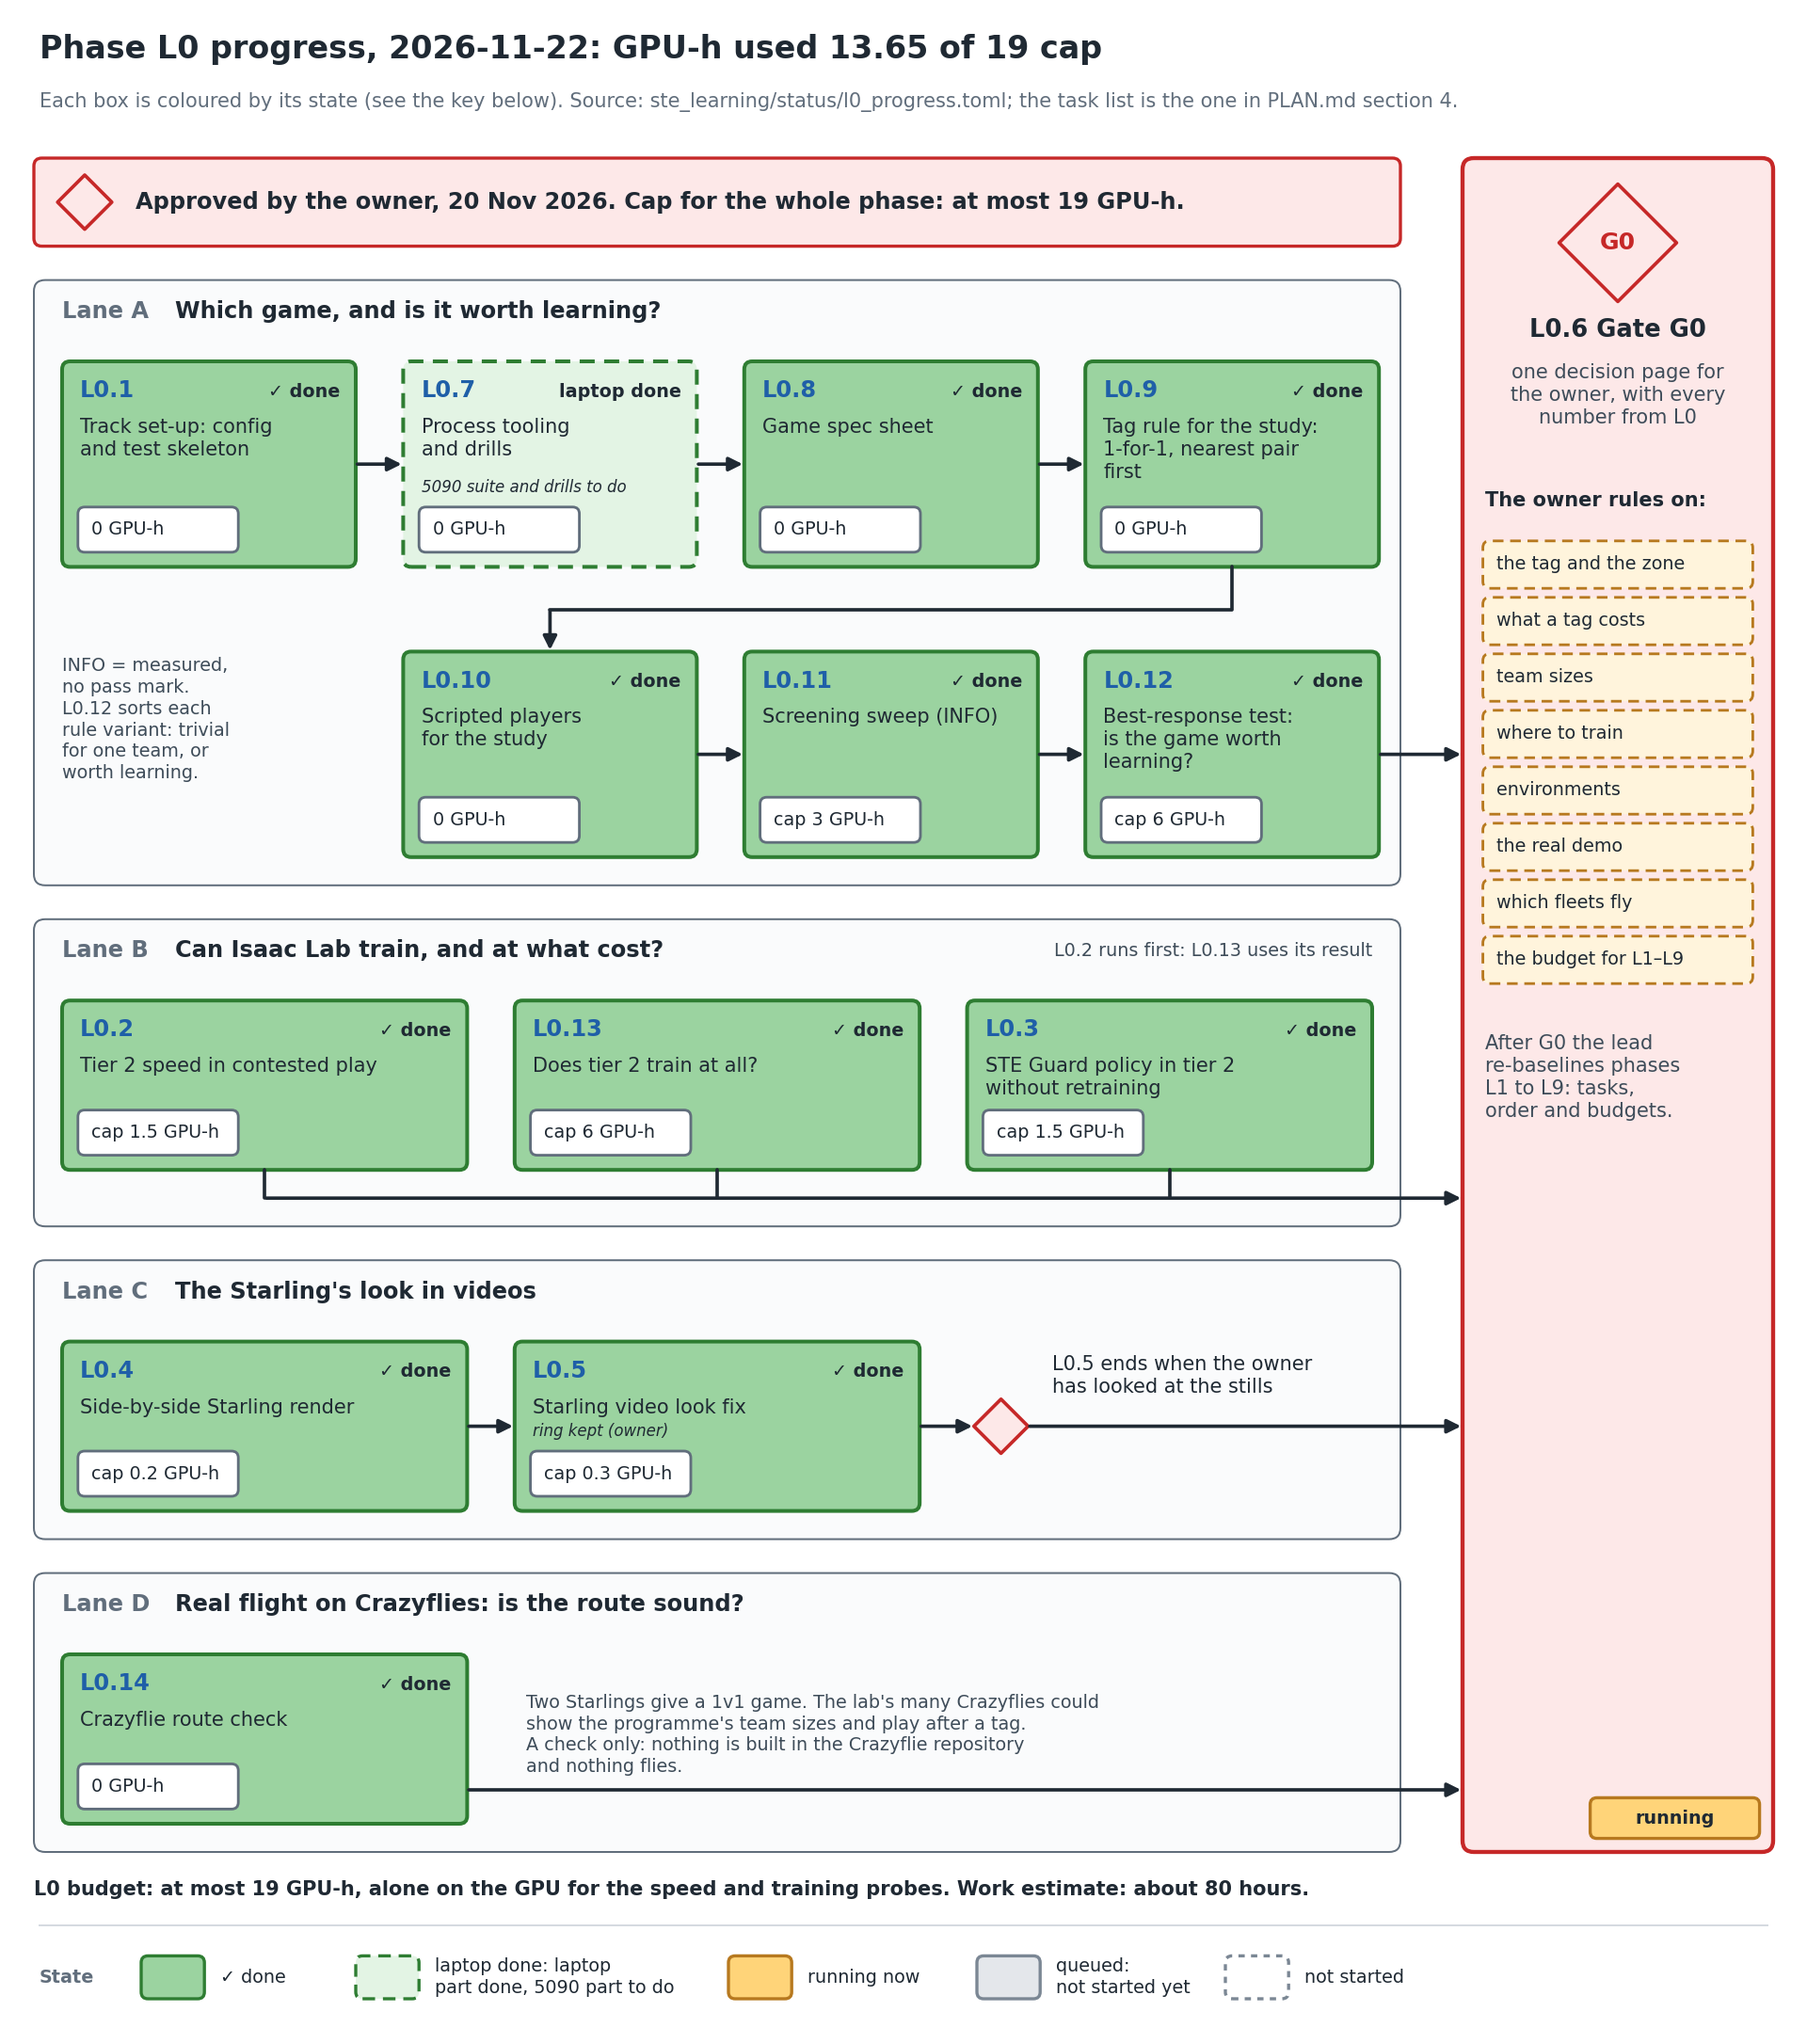
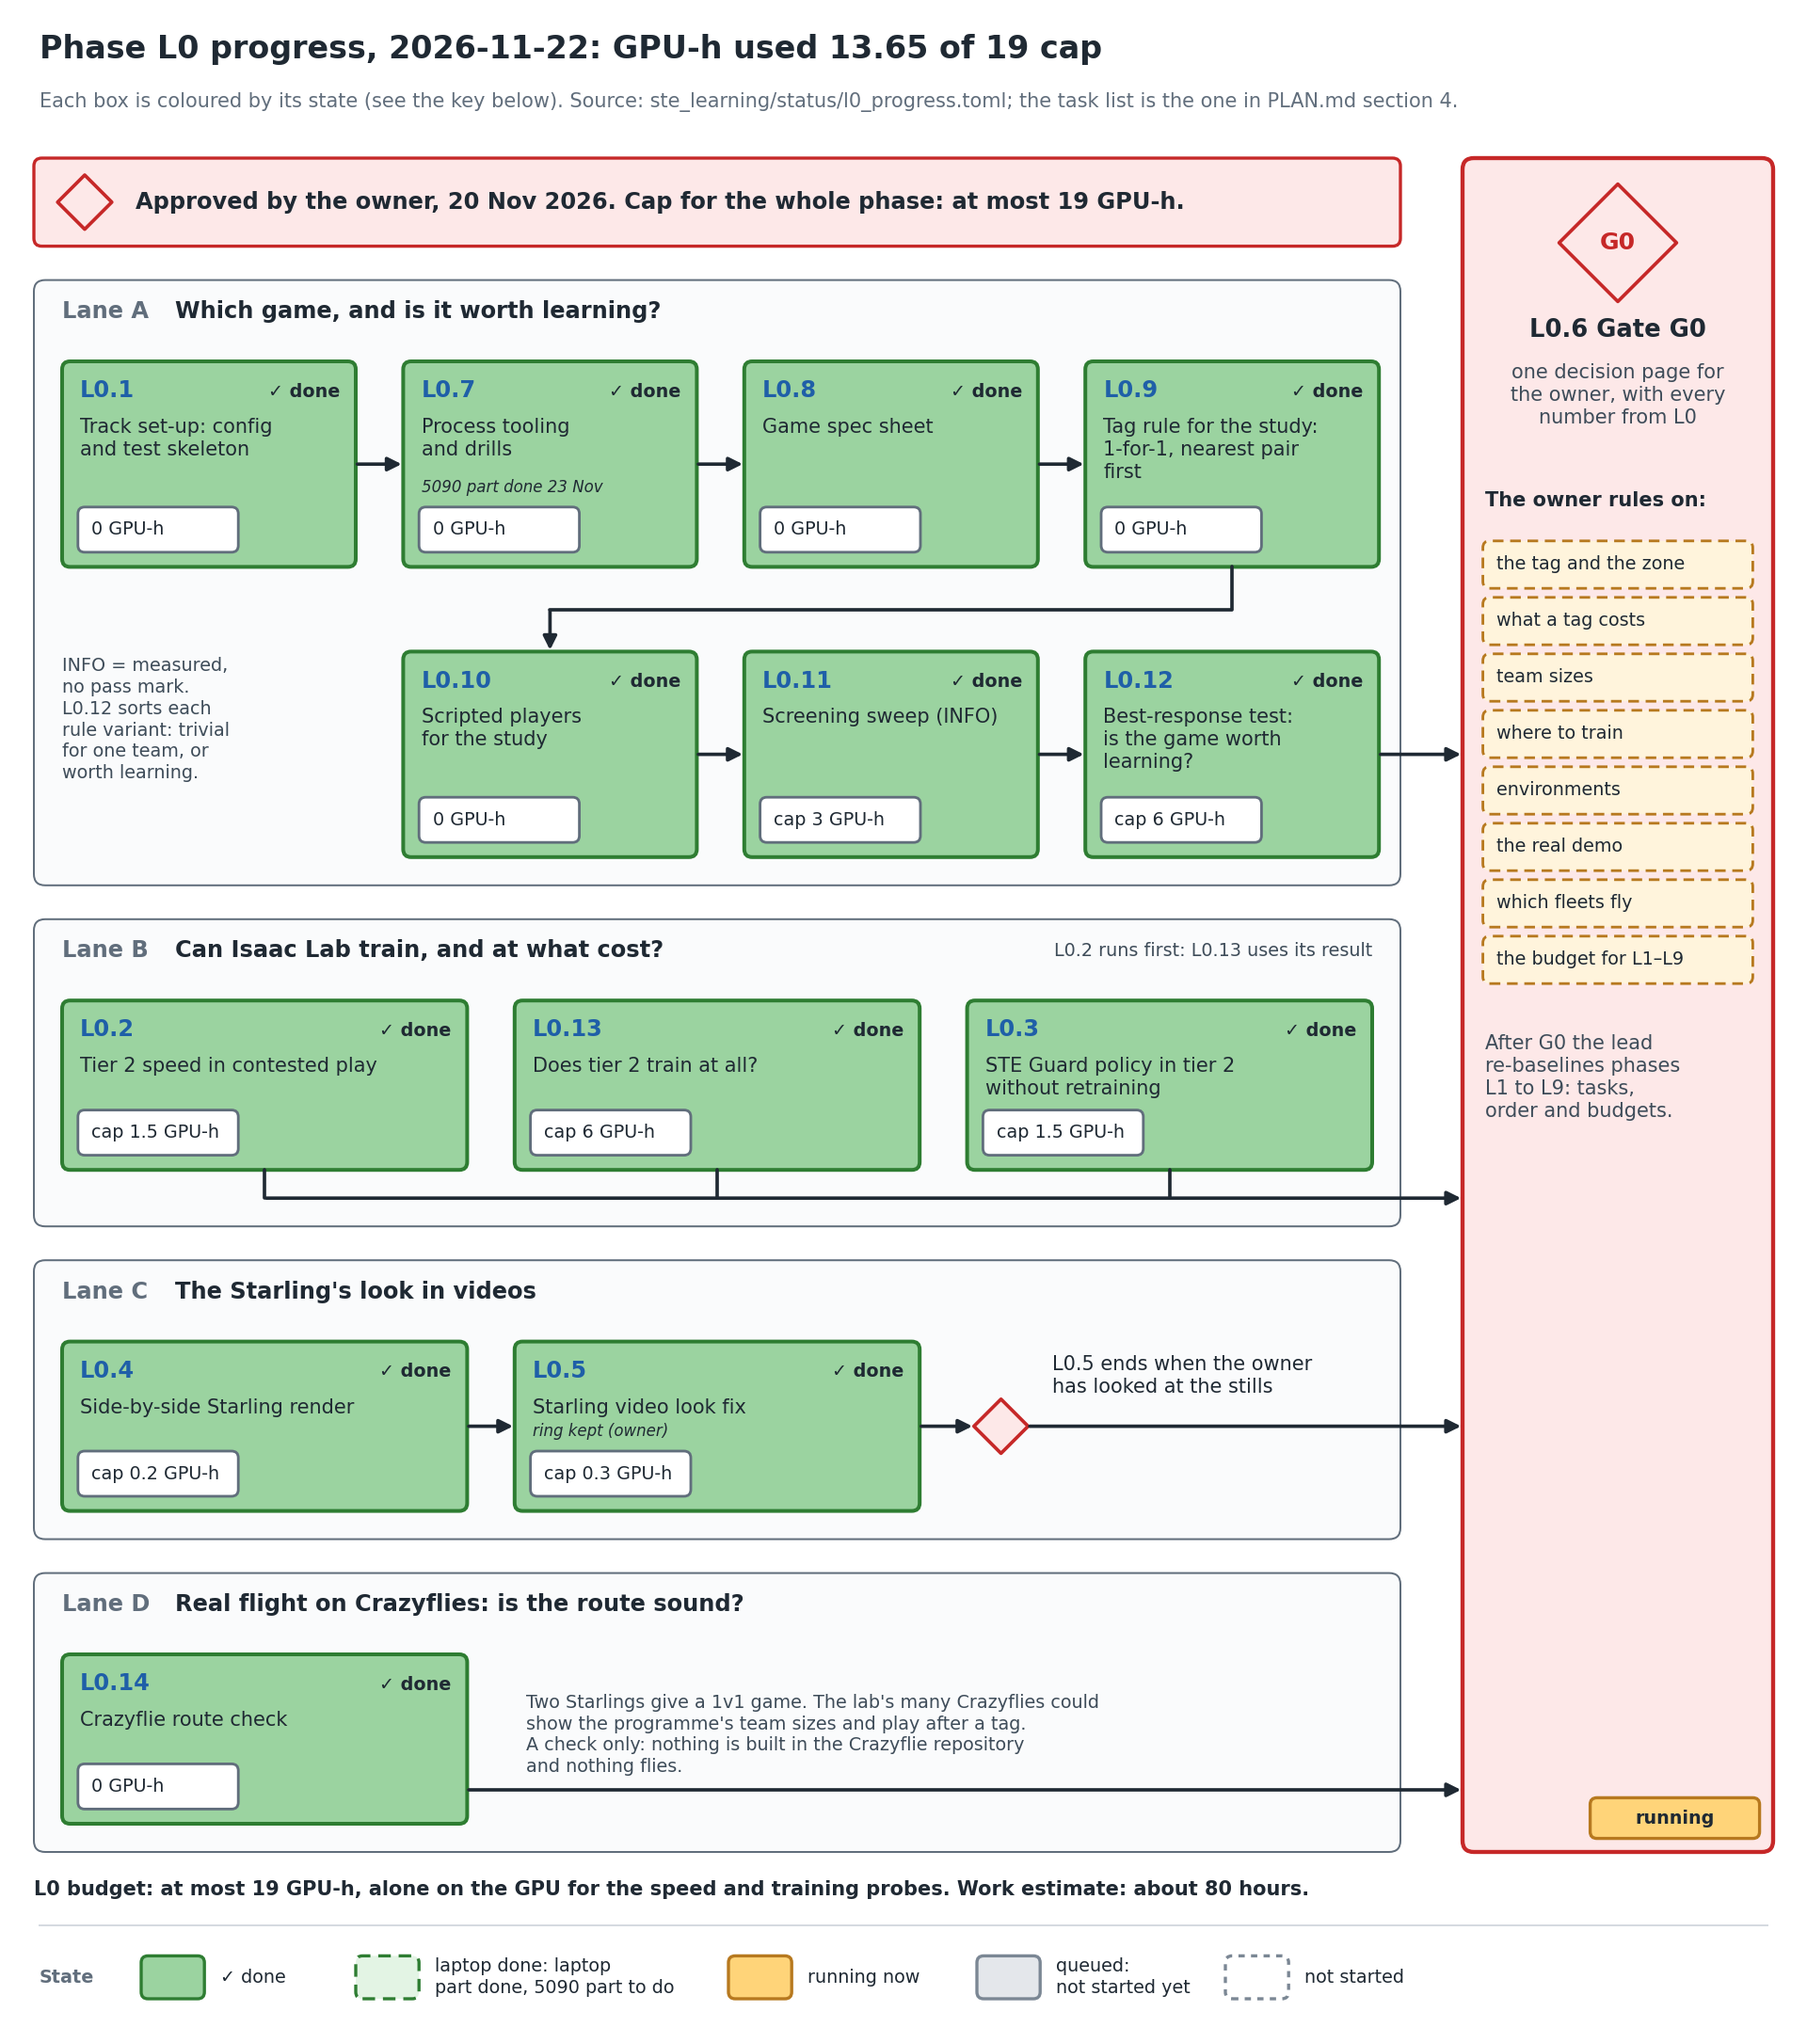
svg_training L1.0: RTX 5090 machine checks (speed re-measure deferred)
Task L1.0 on the home RTX 5090, 23 Nov 2026, 0 GPU-h:
- carry of the laptop's 2.81 GPU-h into this machine's ledger (done once);
- TEST-F2b: the training fingerprint test passes on this AVX512 CPU;
- L09-5090: AVX512 entry added to tests/data/game_tag_off_golden.json, recorded
  from 5ebac526 (parent of the L0.9 commit; dec9d276 is not in the shared
  history) after that tree reproduced the AVX2 and NO AVX records exactly; the
  current game now checks natively on this CPU; provenance in the test's
  docstring;
- closed L0 refuses launches (exit 2); wake-up and resume drills pass under
  --task L1.0 (AUTOMATION section 7 notes the task ID);
- 5090 full CPU suite 2,213 passed, 54 skipped, 0 failed; GPU-only tests with
  the GPU visible 203 passed;
- L0.7 marked done in l0_progress.toml (its 5090 part), figure redrawn;
- record records/2026-11-23_ste_l10_5090_checks_record.md, HANDOFF section 0.

The speed re-measure (and A8's 32 GB check) waits for L1.1b, as the laptop lead
asked. No L1.1b file is touched.

Changed region(s): [[0.2188, 0.1555, 0.4062, 0.2799]]

diff --git a/svg_training/tests/test_game_tag_off_golden.py b/svg_training/tests/test_game_tag_off_golden.py
@@ -33,7 +33,13 @@ on the repository and goes outside it:
     rm -rf /tmp/l09_old
 
 (``--write-golden`` adds this capability and refuses if the whole-number fingerprints disagree with the record; the
-first call with the record file absent starts it.) This file imports only names that existed before L0.9
+first call with the record file absent starts it.)
+
+AVX512 (the home RTX 5090, AMD Ryzen 9 9950X3D), recorded 23 Nov 2026 on that machine: dec9d276 is not in the shared
+history (its branch was never pushed), so the record was made from 5ebac526, the parent of the L0.9 commit 50d8f8f2 on
+``development``. That tree first reproduced the AVX2 and NO AVX records exactly there (``--check`` under
+``ATEN_CPU_CAPABILITY=avx2`` and ``=default``), then ``--write-golden`` added AVX512; its decimal fingerprints equal
+AVX2's. The ``_how`` line in the record still names dec9d276 for the first two capabilities. This file imports only names that existed before L0.9
 (``SvgGame``, ``load_game_cfg``, ``CONFIGS``), so the same code records from the old tree and checks the new one. CPU,
 float32, scripted commands from a fixed generator.
 """

diff --git a/svg_training/records/2026-11-23_ste_l10_5090_checks_record.md b/svg_training/records/2026-11-23_ste_l10_5090_checks_record.md
@@ -1,0 +1,40 @@
+INTERNAL · record of task L1.0 (RTX 5090 machine checks) of STE's learning track. Not a training result.
+
+# L1.0 on the RTX 5090: machine checks (23 November 2026, ~02:00–03:10 +08:00)
+
+**Machine:** home RTX 5090 workstation (AMD Ryzen 9 9950X3D, PyTorch CPU capability AVX512, Python 3.13.5 for
+`gpu_pause.sh`). **Tree:** worktree `~/AirStack-starling-max2-l10`, branch `ste-l1-0` cut from `development` at
+`8fff7628`. **GPU-hours used:** 0 (no training or measurement run; the GPU-only tests ran for about 3 minutes and log
+no hours). **Status:** the machine-check part of L1.0 is DONE; its **speed re-measure is deferred** (the laptop lead,
+23 Nov: the drone model changes with L1.1b; it runs after L1.1b/L1.7), and with it assumption A8's second half
+("three tier 2 seeds side by side fit its 32 GB", costed plan) and the tier-2 physics check at 16,384 games that
+HANDOFF warned might fail on a larger world. Two independent reviewers checked the evidence (numbers; completeness).
+
+| Check | Result |
+|---|---|
+| Owner pauses | none open (`scripts/ste_job.py owner-pauses`) |
+| Carry of the laptop's L1 hours | `carry --gpu-h 2.81 --note "laptop 2026-11-22"`: ledger `budget_l1_l2` used 2.810 of 13.0 (own rows 0.000, carried 2.810). 2.81 = L1.1 0.20 + L1.11 0.46 + L1.12 0.02 + L1.13 1.83 + L1.14 0.15 + L1.15 0.15. **Done once; do not repeat.** |
+| Bundles | `nus_install_provisional.sh` 46 files; `ste_provisional` sha256 list all OK |
+| TEST-F2b (training fingerprint on this CPU) | `test_default_path_bit_identical_after_the_nus_hooks`: 1 passed, not skipped; the 18 Nov hash filed under the AVX512 key is confirmed |
+| L09-5090 (tag-off game on this CPU) | AVX512 record added to `tests/data/game_tag_off_golden.json` from `5ebac526` (parent of the L0.9 commit `50d8f8f2`; `dec9d276` is not in the shared history). That tree reproduced the AVX2 and NO AVX records exactly here first. AVX512's decimal fingerprints equal AVX2's. The current game now checks natively under AVX512: `checked capability AVX512: equal to the pre-L0.9 record`; `test_game_tag_off_golden.py` + `test_tag_rule.py` 46 passed |
+| Closed phase L0 | `launch --task L0.7` refused, exit 2 ("which is closed (phases L0)") |
+| Wake-up drill (`--task L1.0`) | `L1.0 l10_wakeup DONE exit=0 duration=120.2s`, waiter exit 0 |
+| Resume drill (`--task L1.0`) | alive, then dead after `kill -KILL` of the group at 45 s; `DIED exit=none`, waiter exit 21; relaunch with `bash …/cmd.txt` printed `launch=2`; `resumed from step 40 of 120`; `DONE exit=0 … run_effective=120.1s`; `{"steps": 120, "total": 7260.0}` |
+| Full CPU suite (GPU hidden) | **2,213 passed, 54 skipped, 0 failed**, pytest exit 0, 26.6 min. Skips: 41 need the GPU or Isaac Sim (expected with the GPU hidden); 6 `test_ste_l03` (T45's per-game file, see below); 3 NUS parity exports and 1 `states.pt` (in other worktrees of this machine); 2 partner file and 1 `~/nus_jax_reference` (not on the machine) |
+| GPU-only tests, GPU visible | the 8 test files with "CUDA only" / "no CUDA device" skips: 203 passed, 1 skipped (`states.pt`), 1 xfailed; with `states.pt` copied from `~/AirStack-starling-max2-filter-graph`: `test_safety_filter_graph.py` 32 passed, 1 xfailed |
+| L0.3 tests | T45's per-game file copied from `ste_provisional/players/2026-11-21_ste_l014/response/per_game.npz` to `runs/2026-11-21_ste_l014/response/per_game.npz` (sha256 `3959d594…`, equal to the pin in `configs/ste_l03/gates.toml`): `test_ste_l03.py` 21 passed (6 had skipped) |
+| `gpu_pause.sh` | `status` runs on this machine; `python3` is 3.13.5, so `GPU_PAUSE_PYTHON` is not needed. No live pause was made |
+
+**Found, for the laptop lead and the owner:**
+1. The L0.3 gates read T45's per-game file under `runs/`, but `ste_provisional/README.md` says "nothing needs
+   installing": on a fresh clone the six L0.3 tests skip until the file is copied (as above). The fix belongs on the
+   install side (the gates file is sha-locked).
+2. The main clone `~/AirStack-starling-max2` is on `main` and its `scripts/gpu_pause.sh` is the older copy (no
+   `scripts/ste_*.py` pattern, no shared pause log). If the owner pauses jobs from that copy before gaming, an STE job
+   would not be paused and the pause would not reach the shared log. The owner should pause from the `development`
+   worktree's copy (`~/AirStack-starling-max2-dev/svg_training/scripts/gpu_pause.sh`).
+3. The drill lines in `ste_learning/AUTOMATION.md` §7 use `--task L0.7`, refused since L0 closed; a note there now says to
+   use the current phase's machine-check task.
+
+Evidence (raw outputs) was kept in the session scratchpad for the reviewers; the lines quoted above are the outputs.
+Run folders: `runs/ste_l10_drills/` of the `-l10` worktree (git-ignored).

diff --git a/svg_training/docs/claude/HANDOFF.md b/svg_training/docs/claude/HANDOFF.md
@@ -33,6 +33,17 @@ status opens "Main track · Side track". Next side-track step if any: a second s
 (≈0.5 GPU-h), announced first. **L1 caps:** L1.1 0.2 (used), L1.6 0.1, L1.9 1.6, L1.10 0.9, L1.11 1.2, L1.13 2.1, L1.14
 0.3, L1.15 0.3; sum 9.1 + L2 3.9 = 13.
 
+### 23 November 2026 ~03:10 — RTX 5090: L1.0 MACHINE CHECKS DONE (speed part deferred)
+Branch `ste-l1-0` (merged into `development`); record [records/2026-11-23_ste_l10_5090_checks_record.md](../../records/2026-11-23_ste_l10_5090_checks_record.md), two reviewers (numbers, completeness).
+**The carry of the laptop's 2.81 GPU-h is DONE on the 5090 (ledger 2.81 of 13): do not run it again.** TEST-F2b
+passed (AVX512 key confirmed); L09-5090 closed: AVX512 record added to `tests/data/game_tag_off_golden.json` from
+`5ebac526` (the L0.9 commit's parent; `dec9d276` is not in the shared history), current game equal to it natively; closed
+L0 refuses launches (exit 2); wake-up and resume drills as expected under `--task L1.0`; 5090 full suite 2,213 passed,
+54 skipped, 0 failed; GPU-only tests with the GPU visible 203 passed. Deferred with the speed re-measure (laptop lead):
+A8's "three tier 2 seeds fit 32 GB" and the 16,384-game physics check. For the laptop lead: T45's per-game file must be
+copied to `runs/2026-11-21_ste_l014/response/` for the L0.3 tests (the bundle README says nothing needs installing); the
+owner should pause from the `development` worktree's `gpu_pause.sh` (the main clone's copy is older).
+
 ### 22 November 2026 ~16:40 — GATE G0 RULED; PHASE L1 OPEN (read this first)
 The owner ruled every G0 row (DISCUSSION §14; G0_DECISION banner): main game has a 1-for-1 tag (P1, overturns the FIXED
 no-tag rows); option (d): 1.6 m to build the pipeline and for the first demo (scripted 1v1), a 1.15 m side track in L1–L2,

diff --git a/svg_training/ste_learning/AUTOMATION.md b/svg_training/ste_learning/AUTOMATION.md
@@ -206,6 +206,9 @@ that run ended after 3 minutes instead of 19 with nothing flagging it.
 
 **Drills: run them on each machine before its first detached GPU job.** From the `svg_training` folder of the clone
 the work is in, `unset PYTHONPATH` first. They use the machine's real shared folder.
+**Task ID:** phase L0 is closed (G0, 22 Nov 2026), so `--task L0.7` below is now refused (exit 2, the closed-phase
+check). Run the drills under the current phase's machine-check task instead (on the RTX 5090, 23 Nov 2026: `--task L1.0`,
+`--gpu-h 0`), with the names and run folders changed to match; the expected lines are otherwise the same.
 
 Wake-up drill (about 2 minutes):
 ```
